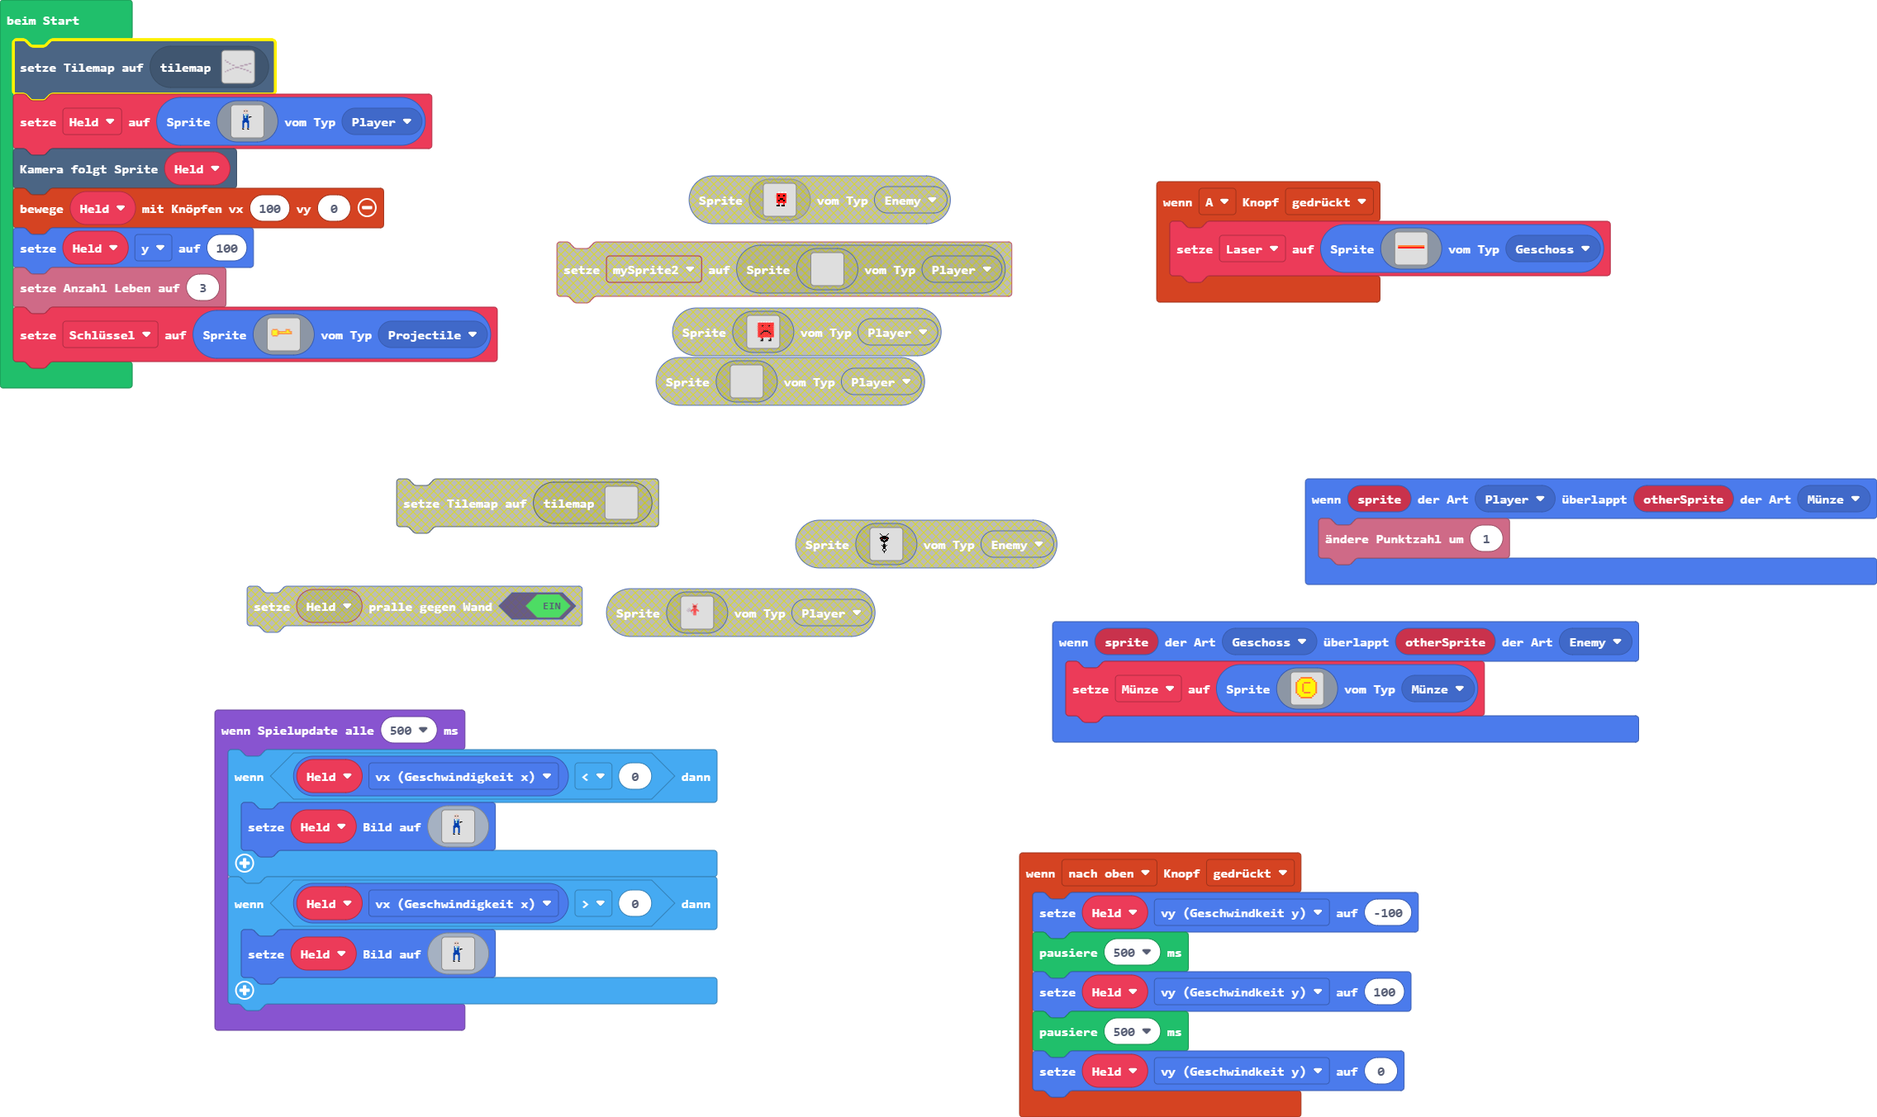
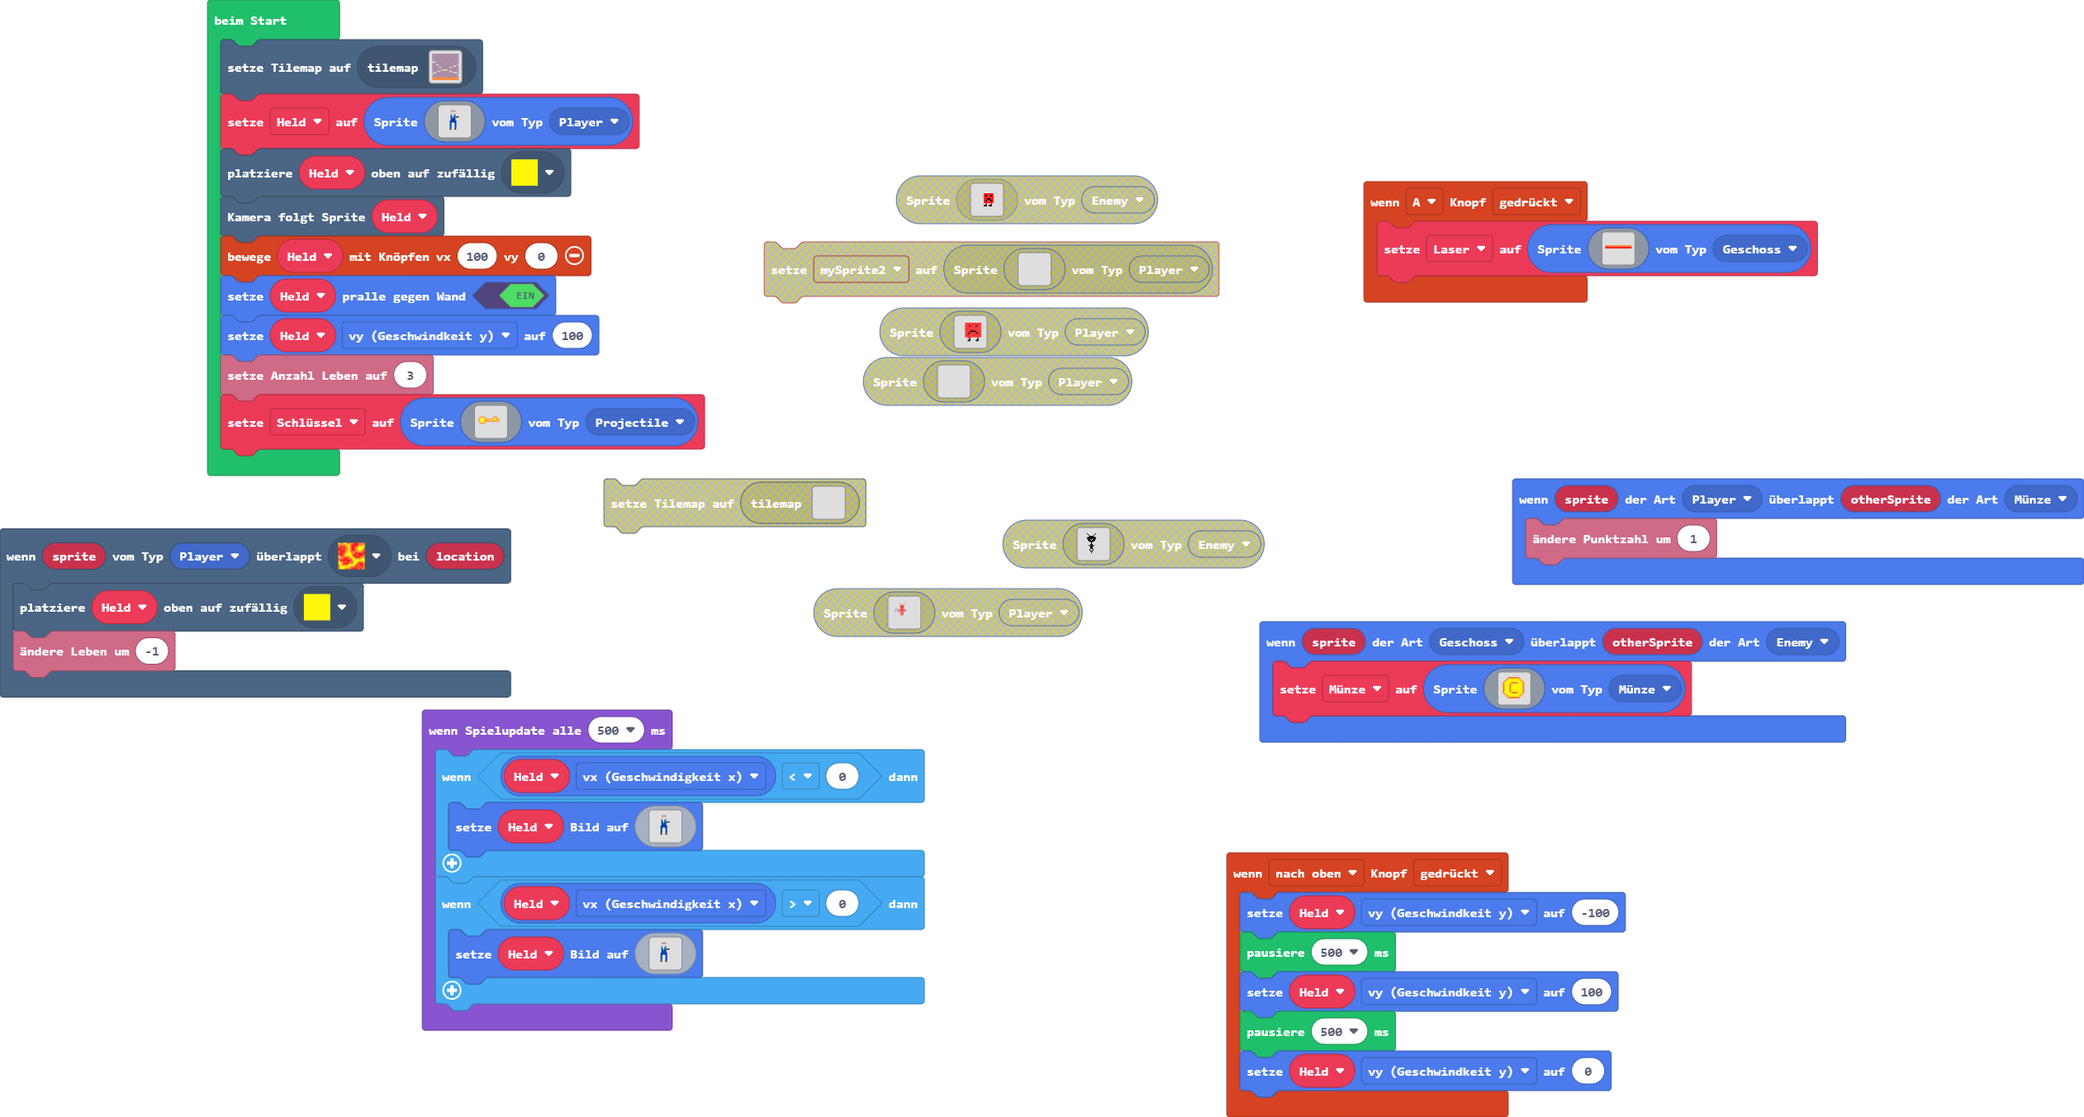
Aktualisiere main.blocks, main.ts, tilemap.g.jres, tilemap.g.ts

diff --git a/tilemap.g.ts b/tilemap.g.ts
@@ -3,6 +3,8 @@ namespace myTiles {
     //% fixedInstance jres blockIdentity=images._tile
     export const transparency16 = image.ofBuffer(hex``);
     //% fixedInstance jres blockIdentity=images._tile
+    export const tile3 = image.ofBuffer(hex``);
+    //% fixedInstance jres blockIdentity=images._tile
     export const tile2 = image.ofBuffer(hex``);
     //% fixedInstance jres blockIdentity=images._tile
     export const tile1 = image.ofBuffer(hex``);
@@ -313,6 +315,177 @@ namespace myTiles {
 . . . . . . . . . . . . . . . . 
 . . . . . . . . . . . . . . . . 
 `, [myTiles.transparency16], TileScale.Sixteen);
+            case "Level18":
+            case "Level18":return tiles.createTilemap(hex`1000100000000000000000000000000000000000000000000000000000000000000000000000000000000000000000000000000000000000000000000000000000000000000000000000000000000000000000000000000000000000000000000000000000000000000000000000000000000000000000000000000000000000000000000000000000000000000000000000000000000000000000000000000000000000000000000000000000000000000000000000000000000000000000000000000000000000000000000000000000000000000000000000000000000000000000000000000000000000000000000000000000000000000000000000000000000000`, img`
+. . . . . . . . . . . . . . . . 
+. . . . . . . . . . . . . . . . 
+. . . . . . . . . . . . . . . . 
+. . . . . . . . . . . . . . . . 
+. . . . . . . . . . . . . . . . 
+. . . . . . . . . . . . . . . . 
+. . . . . . . . . . . . . . . . 
+. . . . . . . . . . . . . . . . 
+. . . . . . . . . . . . . . . . 
+. . . . . . . . . . . . . . . . 
+. . . . . . . . . . . . . . . . 
+. . . . . . . . . . . . . . . . 
+. . . . . . . . . . . . . . . . 
+. . . . . . . . . . . . . . . . 
+. . . . . . . . . . . . . . . . 
+. . . . . . . . . . . . . . . . 
+`, [myTiles.transparency16], TileScale.Sixteen);
+            case "Level19":
+            case "Level19":return tiles.createTilemap(hex`1000100000000000000000000000000000000000000000000000000000000000000000000000000000000000000000000000000000000000000000000000000000000000000000000000000000000000000000000000000000000000000000000000000000000000000000000000000000000000000000000000000000000000000000000000000000000000000000000000000000000000000000000000000000000000000000000000000000000000000000000000000000000000000000000000000000000000000000000000000000000000000000000000000000000000000000000000000000000000000000000000000000000000000000000000000000000000`, img`
+. . . . . . . . . . . . . . . . 
+. . . . . . . . . . . . . . . . 
+. . . . . . . . . . . . . . . . 
+. . . . . . . . . . . . . . . . 
+. . . . . . . . . . . . . . . . 
+. . . . . . . . . . . . . . . . 
+. . . . . . . . . . . . . . . . 
+. . . . . . . . . . . . . . . . 
+. . . . . . . . . . . . . . . . 
+. . . . . . . . . . . . . . . . 
+. . . . . . . . . . . . . . . . 
+. . . . . . . . . . . . . . . . 
+. . . . . . . . . . . . . . . . 
+. . . . . . . . . . . . . . . . 
+. . . . . . . . . . . . . . . . 
+. . . . . . . . . . . . . . . . 
+`, [myTiles.transparency16], TileScale.Sixteen);
+            case "Level20":
+            case "Level20":return tiles.createTilemap(hex`1000100000000000000000000000000000000000000000000000000000000000000000000000000000000000000000000000000000000000000000000000000000000000000000000000000000000000000000000000000000000000000000000000000000000000000000000000000000000000000000000000000000000000000000000000000000000000000000000000000000000000000000000000000000000000000000000000000000000000000000000000000000000000000000000000000000000000000000000000000000000000000000000000000000000000000000000000000000000000000000000000000000000000000000000000000000000000`, img`
+. . . . . . . . . . . . . . . . 
+. . . . . . . . . . . . . . . . 
+. . . . . . . . . . . . . . . . 
+. . . . . . . . . . . . . . . . 
+. . . . . . . . . . . . . . . . 
+. . . . . . . . . . . . . . . . 
+. . . . . . . . . . . . . . . . 
+. . . . . . . . . . . . . . . . 
+. . . . . . . . . . . . . . . . 
+. . . . . . . . . . . . . . . . 
+. . . . . . . . . . . . . . . . 
+. . . . . . . . . . . . . . . . 
+. . . . . . . . . . . . . . . . 
+. . . . . . . . . . . . . . . . 
+. . . . . . . . . . . . . . . . 
+. . . . . . . . . . . . . . . . 
+`, [myTiles.transparency16], TileScale.Sixteen);
+            case "Level21":
+            case "Level21":return tiles.createTilemap(hex`1000100000000000000000000000000000000000000000000000000000000000000000000000000000000000000000000000000000000000000000000000000000000000000000000000000000000000000000000000000000000000000000000000000000000000000000000000000000000000000000000000000000000000000000000000000000000000000000000000000000000000000000000000000000000000000000000000000000000000000000000000000000000000000000000000000000000000000000000000000000000000000000000000000000000000000000000000000000000000000000000000000000000000000000000000000000000000`, img`
+. . . . . . . . . . . . . . . . 
+. . . . . . . . . . . . . . . . 
+. . . . . . . . . . . . . . . . 
+. . . . . . . . . . . . . . . . 
+. . . . . . . . . . . . . . . . 
+. . . . . . . . . . . . . . . . 
+. . . . . . . . . . . . . . . . 
+. . . . . . . . . . . . . . . . 
+. . . . . . . . . . . . . . . . 
+. . . . . . . . . . . . . . . . 
+. . . . . . . . . . . . . . . . 
+. . . . . . . . . . . . . . . . 
+. . . . . . . . . . . . . . . . 
+. . . . . . . . . . . . . . . . 
+. . . . . . . . . . . . . . . . 
+. . . . . . . . . . . . . . . . 
+`, [myTiles.transparency16], TileScale.Sixteen);
+            case "Level22":
+            case "Level22":return tiles.createTilemap(hex`1000100000000000000000000000000000000000000000000000000000000000000000000000000000000000000000000000000000000000000000000000000000000000000000000000000000000000000000000000000000000000000000000000000000000000000000000000000000000000000000000000000000000000000000000000000000000000000000000000000000000000000000000000000000000000000000000000000000000000000000000000000000000000000000000000000000000000000000000000000000000000000000000000000000000000000000000000000000000000000000000000000000000000000000000000000000000000`, img`
+. . . . . . . . . . . . . . . . 
+. . . . . . . . . . . . . . . . 
+. . . . . . . . . . . . . . . . 
+. . . . . . . . . . . . . . . . 
+. . . . . . . . . . . . . . . . 
+. . . . . . . . . . . . . . . . 
+. . . . . . . . . . . . . . . . 
+. . . . . . . . . . . . . . . . 
+. . . . . . . . . . . . . . . . 
+. . . . . . . . . . . . . . . . 
+. . . . . . . . . . . . . . . . 
+. . . . . . . . . . . . . . . . 
+. . . . . . . . . . . . . . . . 
+. . . . . . . . . . . . . . . . 
+. . . . . . . . . . . . . . . . 
+. . . . . . . . . . . . . . . . 
+`, [myTiles.transparency16], TileScale.Sixteen);
+            case "Level23":
+            case "Level23":return tiles.createTilemap(hex`1000100000000000000000000000000000000000000000000000000000000000000000000000000000000000000000000000000000000000000000000000000000000000000000000000000000000000000000000000000000000000000000000000000000000000000000000000000000000000000000000000000000000000000000000000000000000000000000000000000000000000000000000000000000000000000000000000000000000000000000000000000000000000000000000000000000000000000000000000000000000000000000000000000000000000000000000000000000000000000000000000000000000000000000000000000000000000`, img`
+. . . . . . . . . . . . . . . . 
+. . . . . . . . . . . . . . . . 
+. . . . . . . . . . . . . . . . 
+. . . . . . . . . . . . . . . . 
+. . . . . . . . . . . . . . . . 
+. . . . . . . . . . . . . . . . 
+. . . . . . . . . . . . . . . . 
+. . . . . . . . . . . . . . . . 
+. . . . . . . . . . . . . . . . 
+. . . . . . . . . . . . . . . . 
+. . . . . . . . . . . . . . . . 
+. . . . . . . . . . . . . . . . 
+. . . . . . . . . . . . . . . . 
+. . . . . . . . . . . . . . . . 
+. . . . . . . . . . . . . . . . 
+. . . . . . . . . . . . . . . . 
+`, [myTiles.transparency16], TileScale.Sixteen);
+            case "Level24":
+            case "Level24":return tiles.createTilemap(hex`1000100000000000000000000000000000000000000000000000000000000000000000000000000000000000000000000000000000000000000000000000000000000000000000000000000000000000000000000000000000000000000000000000000000000000000000000000000000000000000000000000000000000000000000000000000000000000000000000000000000000000000000000000000000000000000000000000000000000000000000000000000000000000000000000000000000000000000000000000000000000000000000000000000000000000000000000000000000000000000000000000000000000000000000000000000000000000`, img`
+. . . . . . . . . . . . . . . . 
+. . . . . . . . . . . . . . . . 
+. . . . . . . . . . . . . . . . 
+. . . . . . . . . . . . . . . . 
+. . . . . . . . . . . . . . . . 
+. . . . . . . . . . . . . . . . 
+. . . . . . . . . . . . . . . . 
+. . . . . . . . . . . . . . . . 
+. . . . . . . . . . . . . . . . 
+. . . . . . . . . . . . . . . . 
+. . . . . . . . . . . . . . . . 
+. . . . . . . . . . . . . . . . 
+. . . . . . . . . . . . . . . . 
+. . . . . . . . . . . . . . . . 
+. . . . . . . . . . . . . . . . 
+. . . . . . . . . . . . . . . . 
+`, [myTiles.transparency16], TileScale.Sixteen);
+            case "Level25":
+            case "Level25":return tiles.createTilemap(hex`1000100000000000000000000000000000000000000000000000000000000000000000000000000000000000000000000000000000000000000000000000000000000000000000000000000000000000000000000000000000000000000000000000000000000000000000000000000000000000000000000000000000000000000000000000000000000000000000000000000000000000000000000000000000000000000000000000000000000000000000000000000000000000000000000000000000000000000000000000000000000000000000000000000000000000000000000000000000000000000000000000000000000000000000000000000000000000`, img`
+. . . . . . . . . . . . . . . . 
+. . . . . . . . . . . . . . . . 
+. . . . . . . . . . . . . . . . 
+. . . . . . . . . . . . . . . . 
+. . . . . . . . . . . . . . . . 
+. . . . . . . . . . . . . . . . 
+. . . . . . . . . . . . . . . . 
+. . . . . . . . . . . . . . . . 
+. . . . . . . . . . . . . . . . 
+. . . . . . . . . . . . . . . . 
+. . . . . . . . . . . . . . . . 
+. . . . . . . . . . . . . . . . 
+. . . . . . . . . . . . . . . . 
+. . . . . . . . . . . . . . . . 
+. . . . . . . . . . . . . . . . 
+. . . . . . . . . . . . . . . . 
+`, [myTiles.transparency16], TileScale.Sixteen);
+            case "Level26":
+            case "Level26":return tiles.createTilemap(hex`1000100000000000000000000000000000000000000000000000000000000000000000000000000000000000000000000000000000000000000000000000000000000000000000000000000000000000000000000000000000000000000000000000000000000000000000000000000000000000000000000000000000000000000000000000000000000000000000000000000000000000000000000000000000000000000000000000000000000000000000000000000000000000000000000000000000000000000000000000000000000000000000000000000000000000000000000000000000000000000000000000000000000000000000000000000000000000`, img`
+. . . . . . . . . . . . . . . . 
+. . . . . . . . . . . . . . . . 
+. . . . . . . . . . . . . . . . 
+. . . . . . . . . . . . . . . . 
+. . . . . . . . . . . . . . . . 
+. . . . . . . . . . . . . . . . 
+. . . . . . . . . . . . . . . . 
+. . . . . . . . . . . . . . . . 
+. . . . . . . . . . . . . . . . 
+. . . . . . . . . . . . . . . . 
+. . . . . . . . . . . . . . . . 
+. . . . . . . . . . . . . . . . 
+. . . . . . . . . . . . . . . . 
+. . . . . . . . . . . . . . . . 
+. . . . . . . . . . . . . . . . 
+. . . . . . . . . . . . . . . . 
+`, [myTiles.transparency16], TileScale.Sixteen);
             case "Level17":
             case "Level17":return tiles.createTilemap(hex`3200320000000000000000000000000000000000000000000000000000000000000000000000000000000000000000000000000000000000000000000000000000000000000000000000000000000000000000000000000000000000000000000000000000000000000000000000000000000000000000000000000000000000000000000000000000000000000000000000000000000000000000000000000000000000000000000000000000000000000000000000000000000000000000000000000000000000000000000000000000000000000000000000000000000000000000000000000000000000000000000000000000000000000000000000000000000000000000000000000000000000000000000000000000000000000000000000000000000000000000000000000000000000000000000000000000000000000000000000000000000000000000000000000000000000000000000000000000000000000000000000000000000000000000000000000000000000000000000000000000000000000000000000000000000000000000000000000000000000000000000000000000000000000000000000000000000000000000000000000000000000000000000000000000000000000000000000000000000000000000000000000000000000000000000000000000000000000000000000000000000000000000000000000000000000000000000000000000000000000000000000000000000000000000000000000000000000000000000000000000000000000000000000000000000000000000000000000000000000000000000000000001010000000000000000000000000000000000000000000000000000000000000000000000000000000000000000000000000101000000000000000000000000000000000000000000000000000000000000000000000000000000000000000000000000000000000000000000000000000000000000000000000000000000000000000000000000000000000000000000000000000000000001010101000000000000000000000000000000000000000000000000000000000000000000000000000000000000000000000101010100000000000000000000000000000000000000000000000000000000000000000000000000000000000000000000000000000000000000000000000000000000000000000000000000000000000000000000000000000000000000000000000000000000000101010000000000000000000000000000000000000000000000000000000000000000000001010101010000000000000000010101000000000000000000000000000000000000000000000000000000000000000000000101010101000000000000000000000000000000000000000000000000000000000000000000000000000101010101010000000000000000000000000000000000000000000101010100000000000000000000000000000000000000010101010101000000000000000000000000000000000000000000010101010000000000000000000000010101010101000000000000000000000000000000000000000000000000000000000000000000000000000000000000000001010101010100000000000000000000000000000000000000000000000000000000000000000000000000000000000000000000000000000000000000000000000000000000000000000000000000000000000000000000000001010101010101010000000000000000000000000000000000000000000000000000000000000000000000000000000000000101010101010101000000000000000000000000000000000000000000000000000000000000000000000000000101010000000000000000000000000101010100000000000000000000000000000000000000000000000000000000000000010101000000000000000000000000010101010000000000000000000000000000000000000000000000000000010101000000000000000000000000000000000000000000000001010101000000000000000000000000000000000000000001010100000000000000000000000000000000000000000000000101010100000000000000000000000000000001010100000000000000000000000000000000000000000000000000000000000000000000010101010000000000000000000101010000000000000000000000000000000000000000000000000000000000000000000001010101000000000001010000000000000000000000000000000000000000000000000000000000000000000000000000000000000000000000000101000000000000000000000000000000000000000000000000000000000000000000000000000000000000000000010101000000000000000000000000000000000000000000000000000000000000000000000000000000000000000000000001010100000000000000000000000000000000000000000000000000000000000000000000000000000000000000000000000000000000000000000000000000000000000000000000000000000000000000000000000000000000000000000000000000000000000000000000000000000000000000000000000000000000000000000000000000000000000000000000000000000000000000000000000000000000000000000000000000000000000000000000000000000000000000000000000000000000000000000000000000000000000000000000000000000000000000000000000000000000000000000000000000000000000000000000000000000000000000000000000000000000000000000000000000000000000000000000000000000000000000000000000000000000000000000000000000000000000000000000000000000000000000000000000000000000000000000000000000000000000000000000000000000000000000000000000000000000000000000000000000000000000000000000000000000000000000000000000000000000000000000000000000000000000000000000000000000000000000000000000000000000000000000000000000000000000000000000000000000000000000000000000000000000000000000000000000000000000000000000000000000000000000000000000000000000000000000000000000000000000000000000000000000000000000000000000000000000000000000000000000000000000000000000000000000000000000000000000000000000000000000000000000000000000000000000000000000000000000000000000000000000000000000000000000000000000000000000000000000000000000000000000000000000000000000000000000000000000000000000000000000000000000000000000000000000`, img`
 ..................................................
@@ -366,6 +539,48 @@ namespace myTiles {
 ..................................................
 ..................................................
 `, [myTiles.transparency16,myTiles.tile1], TileScale.Sixteen);
+            case "Level27":
+            case "Level27":return tiles.createTilemap(hex`1400140005050505050505050505050505050505050505050505050505050505050505050505050505050505050505050505050505050505050505050505050505050505050505050505050505050505050505050505050505050505050505050505050505050505050505050505050505050505050505050505050503010105050505050505050505050505050505050505050505050505050505050505050505050505050505010105050505050505050505050505050105050505050505050505050505050505010105050505050505010105050505050501010505050505050505050505050505050505050505050505050505050505050505010102010105050505050505050505050501010505050505050501010505050505050101050505050505050505050505050101010503050505050505050505050505050505050505050505050505050505050505050505050505050503050505050505050505050505050505050505050504040404040404040404040404040404040404040404040404040404040404040404040404040404`, img`
+....................
+....................
+....................
+....................
+....................
+....................
+22..................
+....................
+...22..............2
+................2...
+.....2.......22.....
+....................
+.......22222........
+....22.......22.....
+..2.............22..
+2...................
+...................2
+....................
+....................
+....................
+`, [myTiles.transparency16,myTiles.tile1,myTiles.tile3,myTiles.tile2,sprites.dungeon.hazardLava1,sprites.dungeon.floorDark2], TileScale.Sixteen);
+            case "Level28":
+            case "Level28":return tiles.createTilemap(hex`1000100000000000000000000000000000000000000000000000000000000000000000000000000000000000000000000000000000000000000000000000000000000000000000000000000000000000000000000000000000000000000000000000000000000000000000000000000000000000000000000000000000000000000000000000000000000000000000000000000000000000000000000000000000000000000000000000000000000000000000000000000000000000000000000000000000000000000000000000000000000000000000000000000000000000000000000000000000000000000000000000000000000000000000000000000000000000`, img`
+. . . . . . . . . . . . . . . . 
+. . . . . . . . . . . . . . . . 
+. . . . . . . . . . . . . . . . 
+. . . . . . . . . . . . . . . . 
+. . . . . . . . . . . . . . . . 
+. . . . . . . . . . . . . . . . 
+. . . . . . . . . . . . . . . . 
+. . . . . . . . . . . . . . . . 
+. . . . . . . . . . . . . . . . 
+. . . . . . . . . . . . . . . . 
+. . . . . . . . . . . . . . . . 
+. . . . . . . . . . . . . . . . 
+. . . . . . . . . . . . . . . . 
+. . . . . . . . . . . . . . . . 
+. . . . . . . . . . . . . . . . 
+. . . . . . . . . . . . . . . . 
+`, [myTiles.transparency16], TileScale.Sixteen);
         }
         return null;
     })
@@ -373,6 +588,8 @@ namespace myTiles {
     helpers._registerFactory("tile", function(name: string) {
         switch(helpers.stringTrim(name)) {
             case "transparency16":return transparency16;
+            case "myTile":
+            case "tile3":return tile3;
             case "tile2":return tile2;
             case "tile1":return tile1;
         }

diff --git a/main.ts b/main.ts
@@ -35,10 +35,14 @@ sprites.onOverlap(SpriteKind.Geschoss, SpriteKind.Enemy, function (sprite, other
 sprites.onOverlap(SpriteKind.Player, SpriteKind.Münze, function (sprite, otherSprite) {
     info.changeScoreBy(1)
 })
+scene.onOverlapTile(SpriteKind.Player, sprites.dungeon.hazardLava1, function (sprite, location) {
+    tiles.placeOnRandomTile(Held, assets.tile`myTile`)
+    info.changeLifeBy(-1)
+})
 let Münze: Sprite = null
 let Laser: Sprite = null
 let Held: Sprite = null
-tiles.setCurrentTilemap(tilemap`Level17`)
+tiles.setCurrentTilemap(tilemap`Level27`)
 Held = sprites.create(img`
     ................................
     ............dddd................
@@ -73,9 +77,11 @@ Held = sprites.create(img`
     ................................
     ................................
     `, SpriteKind.Player)
+tiles.placeOnRandomTile(Held, assets.tile`myTile`)
 scene.cameraFollowSprite(Held)
 controller.moveSprite(Held, 100, 0)
-Held.y = 100
+Held.setBounceOnWall(true)
+Held.vy = 100
 info.setLife(3)
 let Schlüssel = sprites.create(img`
     ..........................
